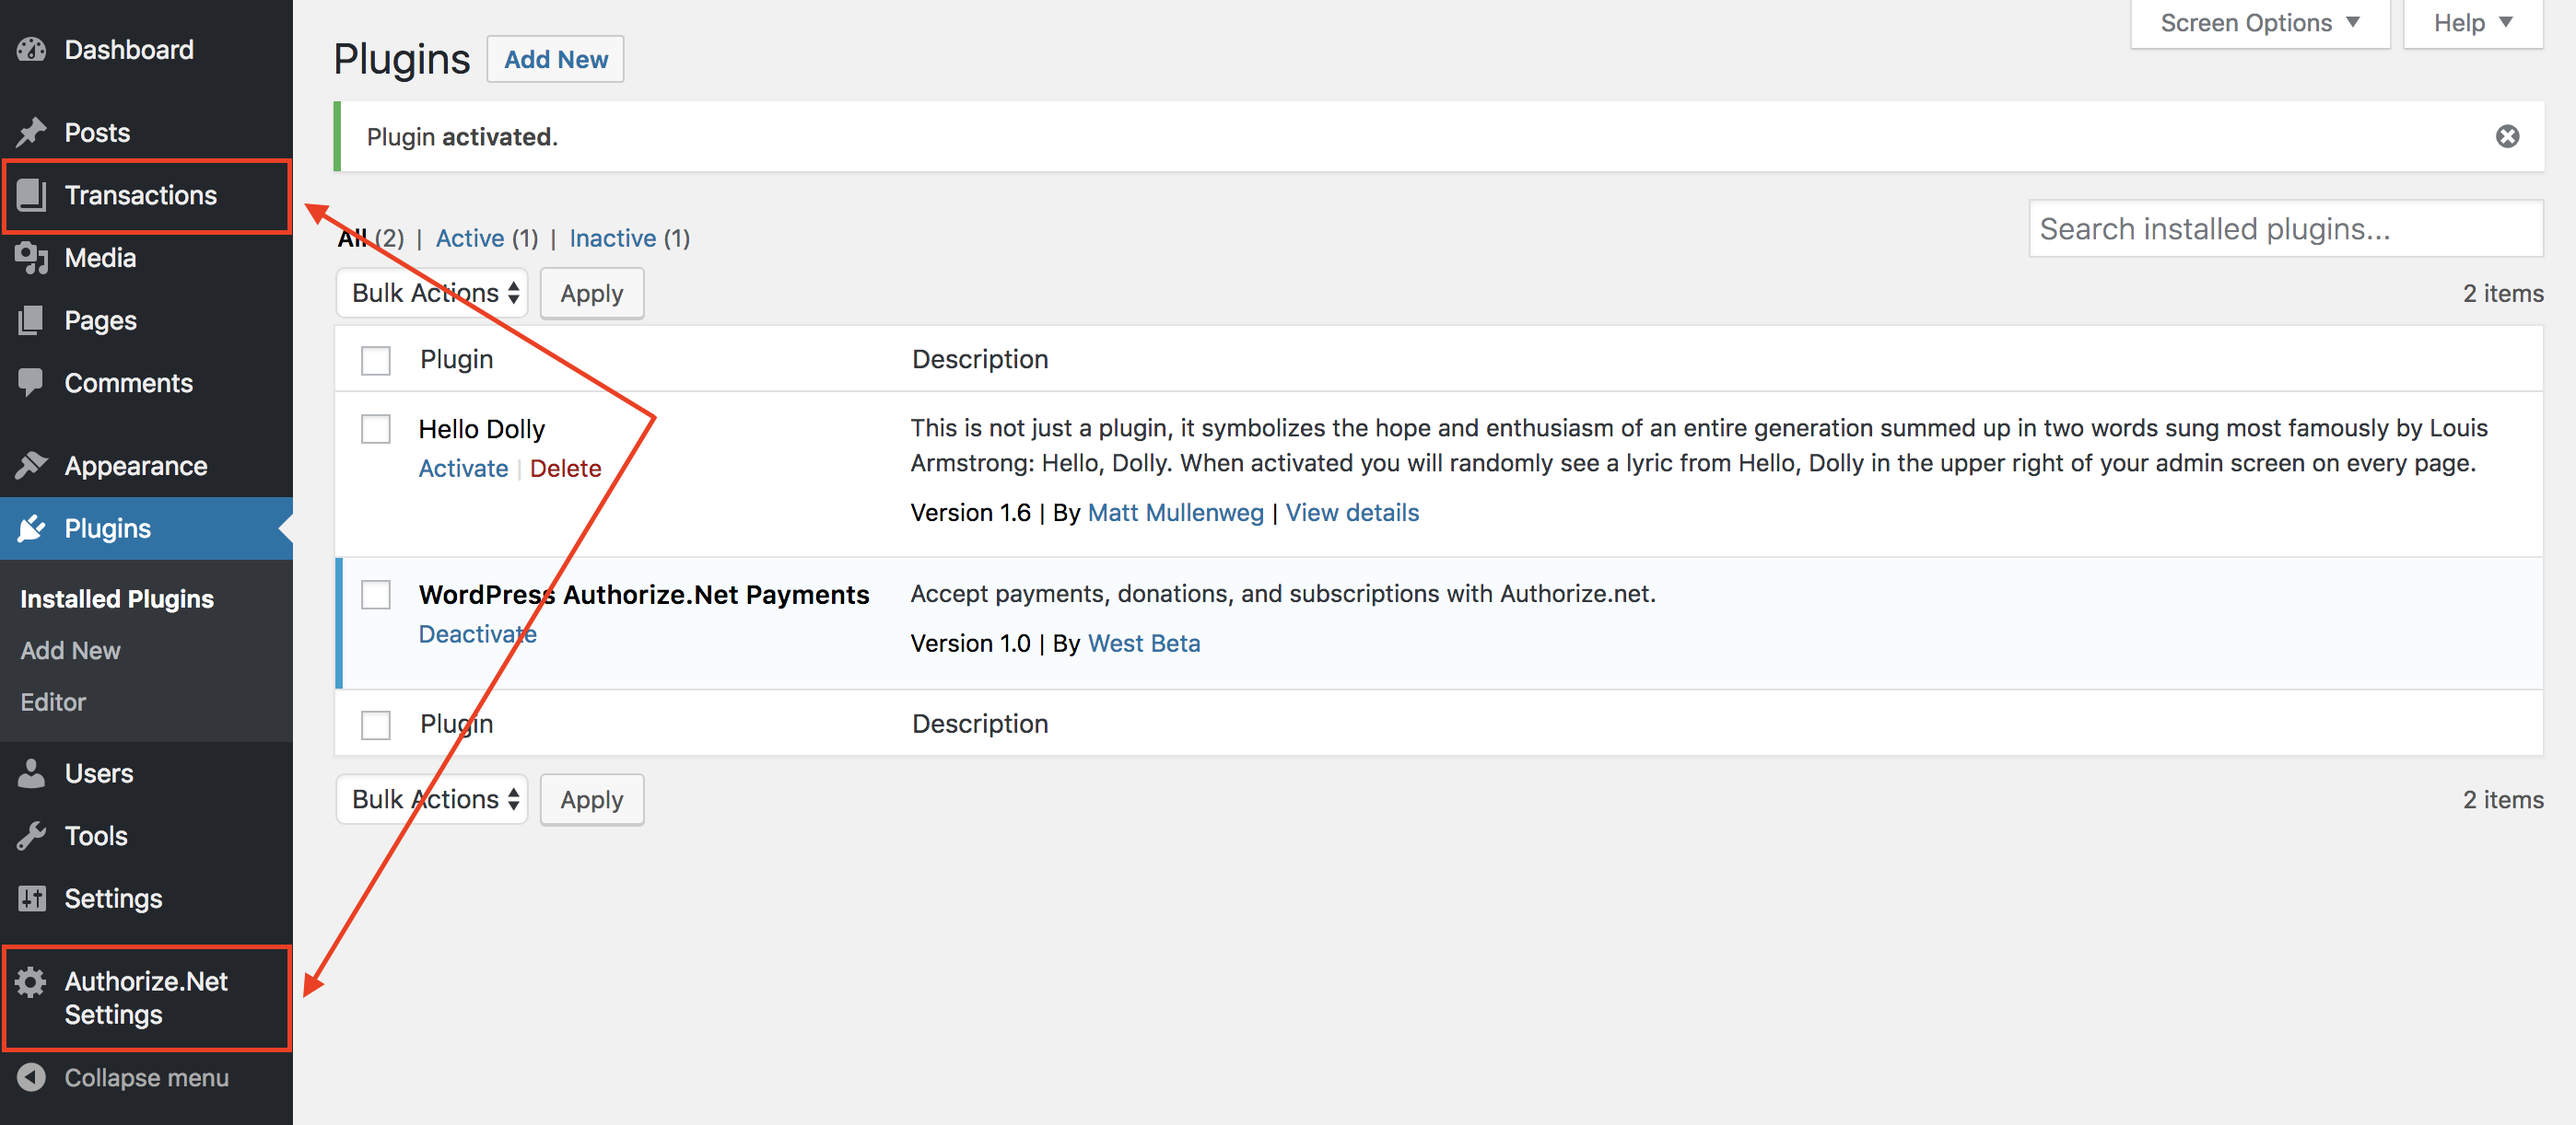
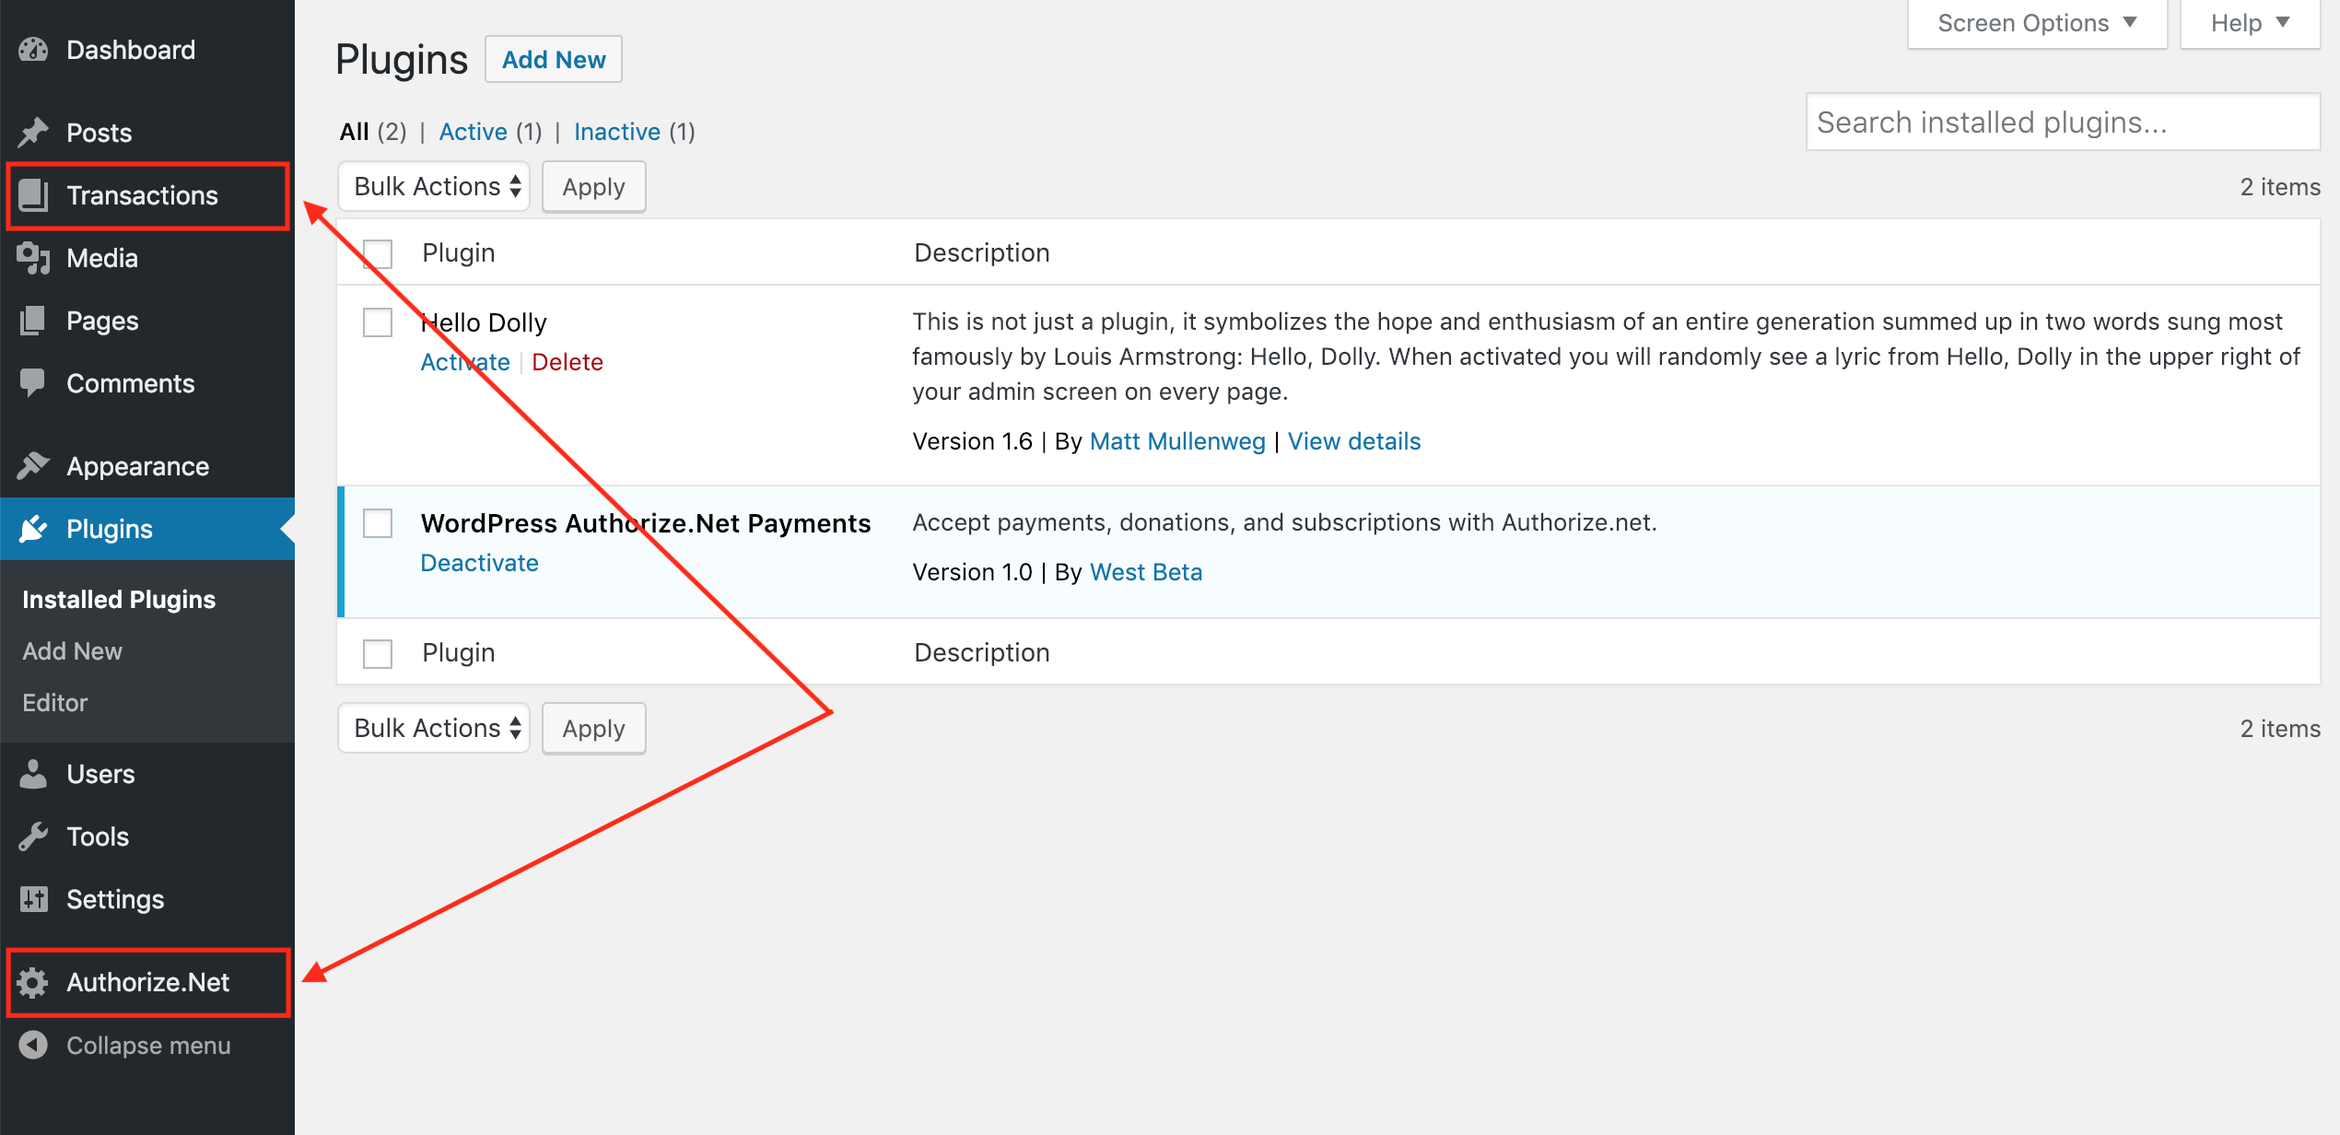
update docs

diff --git a/src/support/wordpress-authorize-net-payments-plugin-docs.md b/src/support/wordpress-authorize-net-payments-plugin-docs.md
@@ -59,16 +59,19 @@ Once the plugin is activated, you should see two new links on the left hand dash
 
 ##### 3. Register & Setup the Plugin
 
-Click on the dashboard link titled "Authorize.Net Settings". This will display
+Click on the dashboard link titled "Authorize.Net". This will display
 the options and settings for the WordPress Authorize.Net Payments plugin.
 
 ![Settings Selected](/assets/img/products/wp-authnet/support/settings-selected.png)
 
-Register the plugin
+Register and activate by entering your email address that you used
+to purchase the WordPress Authorize.Net Payments plugin and enter 
+the license key you recieved.
 
-![Register Plugin]()
+![Register Plugin](/assets/img/products/wp-authnet/support/activate-license.png)
 
-Configure the settings to your choosing. Make sure to set the *Authorize.Net Login ID*
+Once the plugin is activated, configure the settings to your choosing. 
+Make sure to set the *Authorize.Net Login ID*
 and the *Authorize.Net Transaction Key* as they are required for the plugin to work.
 Learn more about all the plugin [settings and options here](#settings).
 
